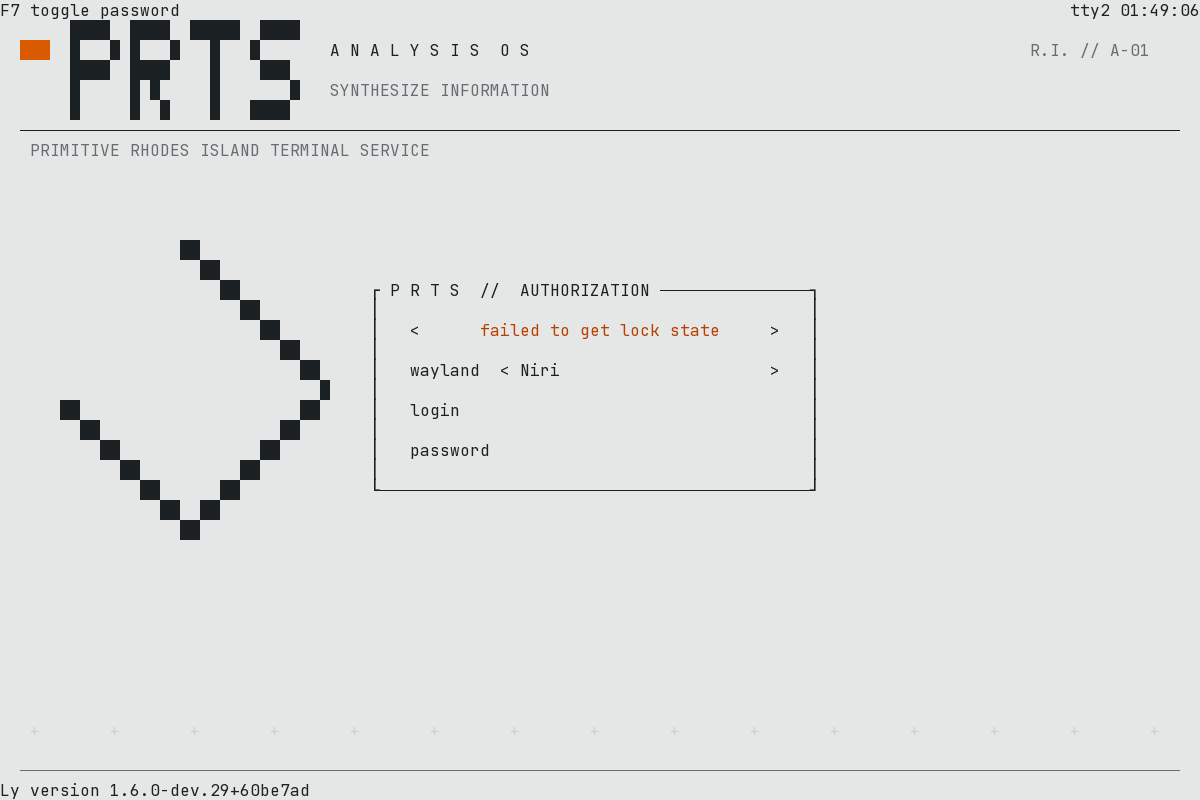
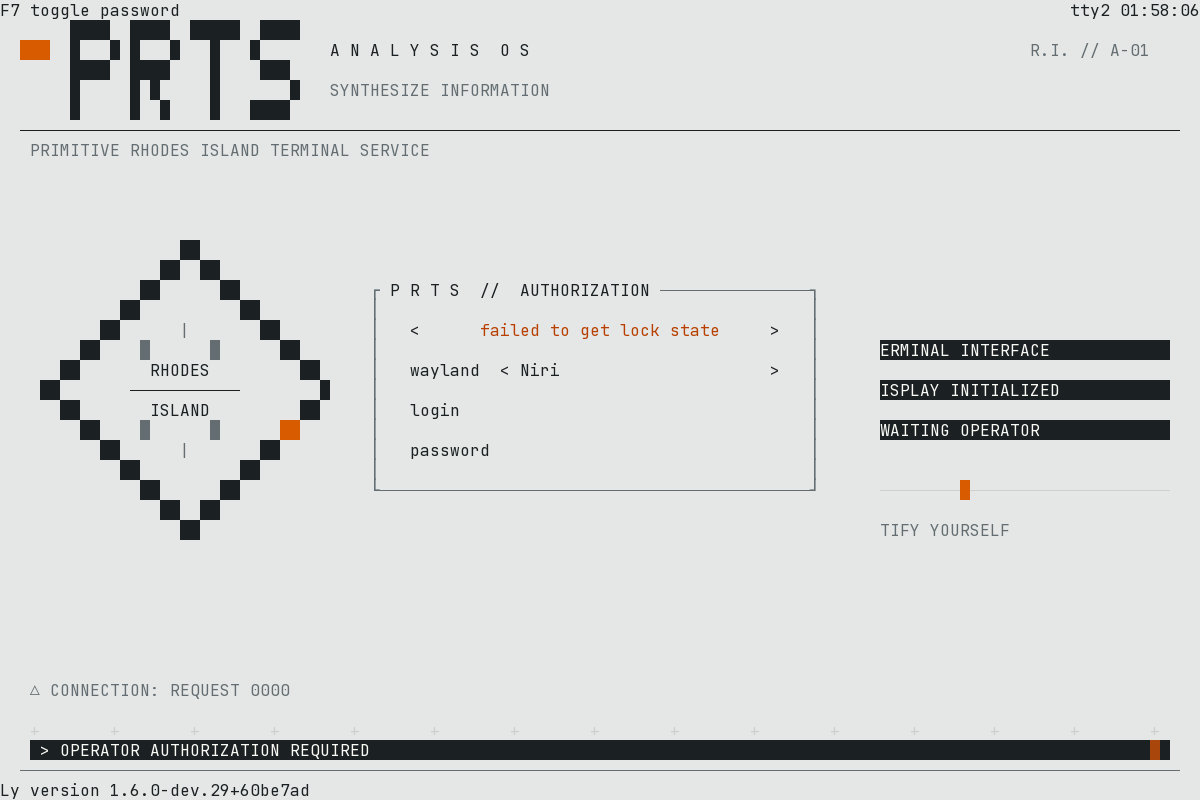
feat: refine PRTS mark and soften login frame

diff --git a/docs/icon-design.md b/docs/icon-design.md
@@ -11,7 +11,9 @@
 
 参考画面包括官方 [Doctor’s Notes 终端](https://x.com/ArknightsEN/status/1854780899780616656)、
 [PRTS Connection 界面](https://arknights.wikiru.jp/?PRTS) 与
-[Analysis OS 启动画面](https://ecywang.com/pic/prts%E5%9B%BE%E6%A0%87/)。
+[Analysis OS 启动画面](https://ecywang.com/pic/prts%E5%9B%BE%E6%A0%87/)，以及
+[mashirozx/arknights-ui](https://github.com/mashirozx/arknights-ui) 的加载器、半透明面板和高对比强调色。
+这里只借鉴布局语言和动画节奏，不打包该项目的逆向游戏贴图；仓库作者也注明那些素材仅供学习使用。
 
 ## 修改图标
 
